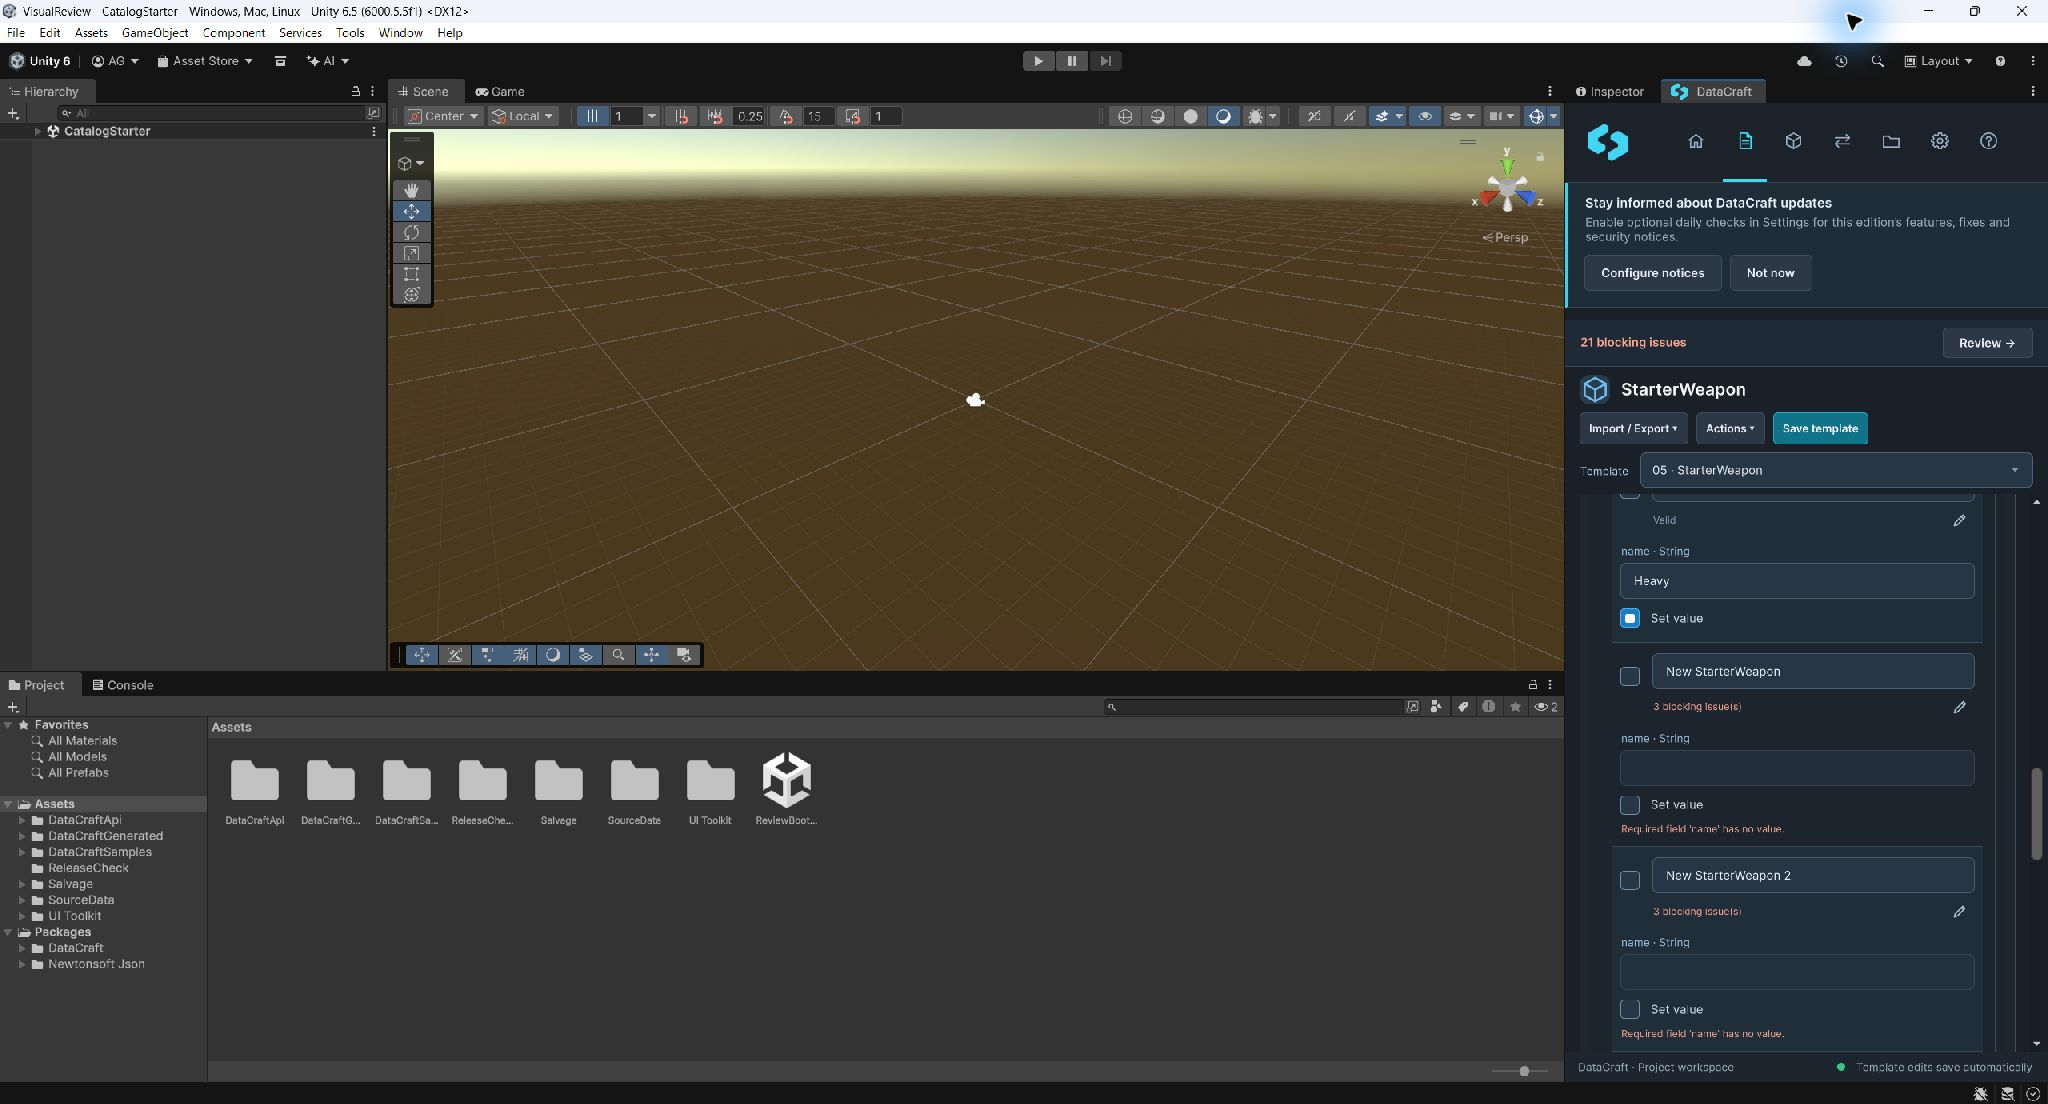
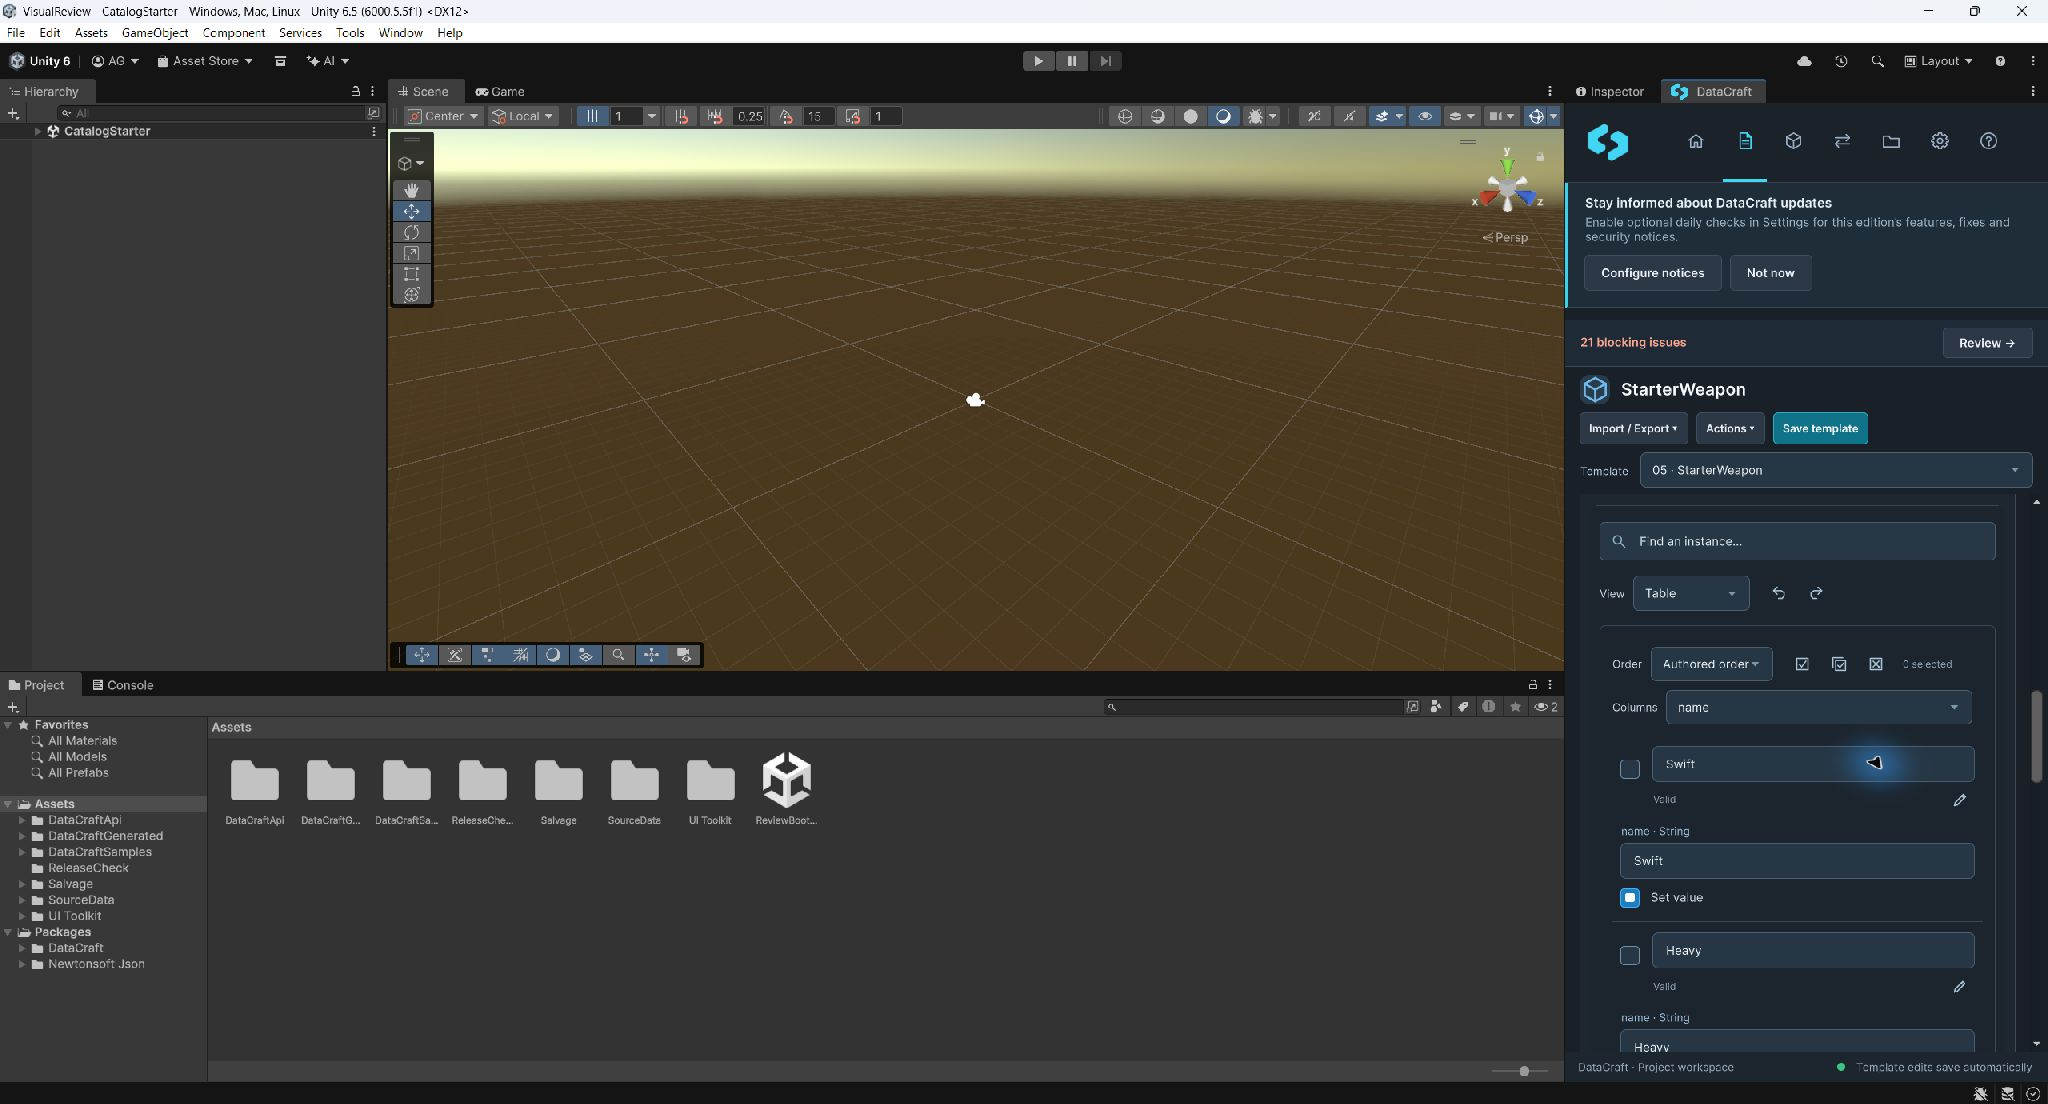
Finalize prepared 1.4.1 with uniform table rows and current screenshots

diff --git a/docs/guides/Authoring.md b/docs/guides/Authoring.md
@@ -98,6 +98,6 @@ If an ordinary template save fails, editing pauses and offers **Retry edit**, **
 
 The searchable offline guide covers the same rules: [wide Help](Screenshots/table-help-wide.jpg), [docked Help](Screenshots/table-help-docked.jpg).
 
-Rows alternate subtly in tone, with common input baselines and aligned column dividers. The bottom Previous/Next buttons match Cards. Columns selects fields independently of the instance pages.
+Rows share a uniform background, with common input baselines and aligned column dividers. The bottom Previous/Next buttons match Cards. Columns selects fields independently of the instance pages.
 
 The table screenshots include intentionally incomplete drafts to show validation; those example project drafts are not installed with the asset.

diff --git a/docs/devlogs/DEVLOG-ITCH-1.4.1-ES.md b/docs/devlogs/DEVLOG-ITCH-1.4.1-ES.md
@@ -2,7 +2,7 @@
 
 DataCraft 1.4.1 pule la edición en tabla sin cambiar los formatos de tus datos.
 
-- Tonos alternos suaves y separadores de columnas para recorrer listas con más claridad.
+- Fondo uniforme y separadores de columnas para recorrer listas con más claridad.
 - Nombres y campos alineados a la misma altura, con cabeceras sobre la misma cuadrícula.
 - Selector Columns junto a Order para elegir los campos por nombre, sin otra fila de flechas.
 - Botones Previous/Next iguales a los de Cards, con contador de páginas de instancias. La revisión de lotes utiliza los mismos controles.

diff --git a/docs/devlogs/DEVLOG-ITCH-1.4.1.md b/docs/devlogs/DEVLOG-ITCH-1.4.1.md
@@ -2,7 +2,7 @@
 
 DataCraft 1.4.1 refines Table authoring without changing your data formats.
 
-- Subtle alternating row tones and column dividers make larger lists easier to scan.
+- Uniform row backgrounds and column dividers make larger lists easier to scan.
 - Instance names and typed inputs share aligned baselines; headers follow the same column grid.
 - Choose visible field groups by name through Columns beside Order. There is no separate row of field-navigation arrows.
 - Previous/Next buttons match Cards, with a labelled instance page counter. Bulk review uses the same controls.

diff --git a/docs/CHANGELOG.md b/docs/CHANGELOG.md
@@ -6,7 +6,7 @@ No changes recorded.
 
 ## 1.4.1 — Aligned table grid · 2026-10-31
 
-- Align typed inputs, identities and headers to a shared grid with subtle alternating row tones and column dividers.
+- Align typed inputs, identities and headers to a shared grid with uniform row surfaces and column dividers.
 - Use the Cards Previous/Next controls for table and bulk-review pages. Select visible fields separately through Columns.
 
 
